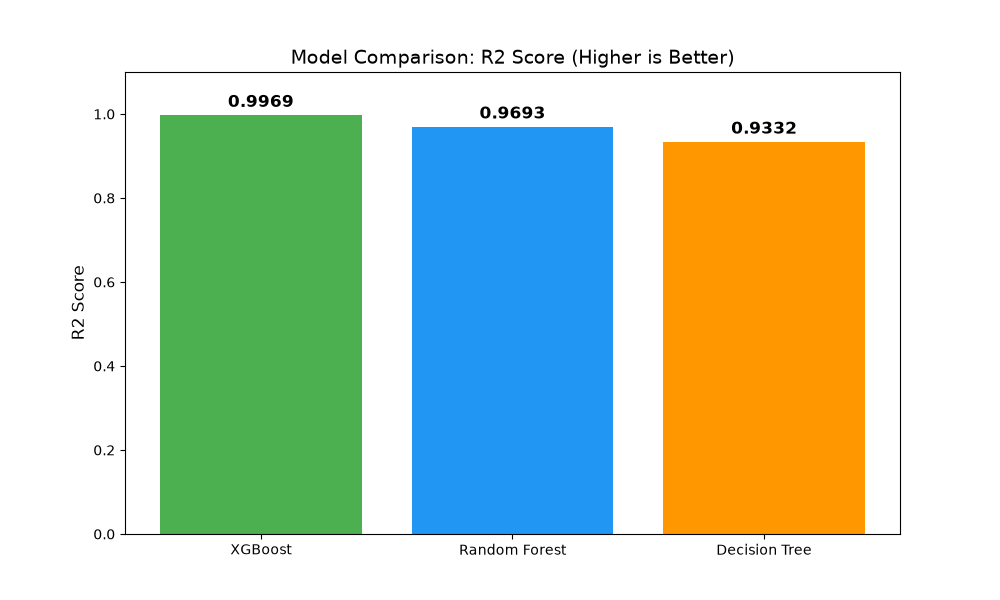
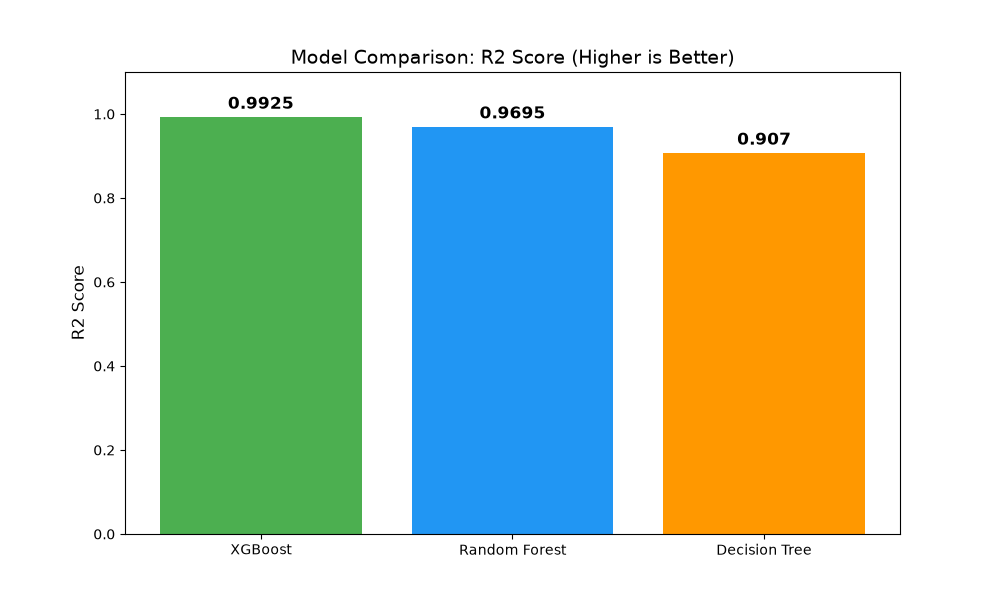
Connect PostgreSQL and update user profile handling

Changed region(s): [[0.651, 0.18, 0.868, 0.27], [0.186, 0.15, 0.341, 0.21], [0.527, 0.18, 0.558, 0.21]]

diff --git a/backend/component01/main.py b/backend/component01/main.py
@@ -7,16 +7,15 @@ import numpy as np
 import joblib
 import shap
 import json
-import sqlite3
 
-# Import our custom modules
+# පරණ sqlite3 import එක අයින් කළා. database.py එකෙන් get_db_connection ගත්තා.
 from schemas import UserRegistrationRequest, PeerFitnessSyncRequest, RecommendationRequest
-from database import init_db, get_registered_user, DB_FILE
+from database import init_db, get_registered_user, get_db_connection
 from nlp_scraper import fetch_live_social_data
 from utils import map_difficulty, extract_scenic_tags, build_route_geometry_from_csv
 
-BASE_DIR = os.path.dirname(os.path.abspath(__file__))  # මේකෙන් එන්නේ backend\component01
-PROJECT_ROOT = os.path.dirname(os.path.dirname(BASE_DIR))  # මේකෙන් J26-IT-342 ප්රධාන ෆෝල්ඩර් එකට යනවා
+BASE_DIR = os.path.dirname(os.path.abspath(__file__))  
+PROJECT_ROOT = os.path.dirname(os.path.dirname(BASE_DIR))  
 
 MODEL_PATH = os.path.join(PROJECT_ROOT, 'ML_models', 'component01', 'models', 'xgboost_trail_model.pkl')
 TRAILS_DATA_PATH = os.path.join(PROJECT_ROOT, 'datasets', 'component01', 'raw', 'hiking_trails_sri_lanka.csv')
@@ -88,27 +87,29 @@ def get_profile():
 @app.post("/profile")
 def save_or_update_profile(req: UserRegistrationRequest):
     init_db()
-    conn = sqlite3.connect(DB_FILE)
+    conn = get_db_connection()
     cursor = conn.cursor()
+    # PostgreSQL වල ? වෙනුවට %s භාවිතා වේ
     cursor.execute("""
         INSERT INTO user_profile (
             id, name, email, age, weight_kg, height_cm, resting_hr,
             experience_level, has_medical_issue, medical_notes,
             preferred_max_hours, preferred_scenic, fitness_level, fitness_source
-        ) VALUES (1, ?, ?, ?, ?, ?, ?, ?, ?, ?, ?, ?, ?, ?)
+        ) VALUES (1, %s, %s, %s, %s, %s, %s, %s, %s, %s, %s, %s, %s, %s)
         ON CONFLICT(id) DO UPDATE SET
-            name=excluded.name,
-            email=excluded.email,
-            age=excluded.age,
-            weight_kg=excluded.weight_kg,
-            height_cm=excluded.height_cm,
-            resting_hr=excluded.resting_hr,
-            experience_level=excluded.experience_level,
-            has_medical_issue=excluded.has_medical_issue,
-            medical_notes=excluded.medical_notes,
-            preferred_max_hours=excluded.preferred_max_hours,
-            preferred_scenic=excluded.preferred_scenic,
-            fitness_level=excluded.fitness_level
+            name=EXCLUDED.name,
+            email=EXCLUDED.email,
+            age=EXCLUDED.age,
+            weight_kg=EXCLUDED.weight_kg,
+            height_cm=EXCLUDED.height_cm,
+            resting_hr=EXCLUDED.resting_hr,
+            experience_level=EXCLUDED.experience_level,
+            has_medical_issue=EXCLUDED.has_medical_issue,
+            medical_notes=EXCLUDED.medical_notes,
+            preferred_max_hours=EXCLUDED.preferred_max_hours,
+            preferred_scenic=EXCLUDED.preferred_scenic,
+            fitness_level=EXCLUDED.fitness_level,
+            fitness_source=EXCLUDED.fitness_source
     """, (
         req.name, req.email, req.age, req.weight_kg, req.height_cm, req.resting_hr,
         req.experience_level, int(req.has_medical_issue), req.medical_notes,
@@ -116,15 +117,17 @@ def save_or_update_profile(req: UserRegistrationRequest):
         req.fitness_level, "Manual Selection / Smartwatch Baseline"
     ))
     conn.commit()
+    cursor.close()
     conn.close()
     return {"status": "saved", "profile": get_registered_user()}
 
 @app.delete("/profile")
 def reset_profile():
-    conn = sqlite3.connect(DB_FILE)
+    conn = get_db_connection()
     cursor = conn.cursor()
-    cursor.execute("DELETE FROM user_profile")
+    cursor.execute("TRUNCATE TABLE user_profile RESTART IDENTITY CASCADE;")
     conn.commit()
+    cursor.close()
     conn.close()
     return {"status": "deleted", "registered": False}
 
@@ -133,14 +136,16 @@ def sync_fitness_from_peer_model(req: PeerFitnessSyncRequest):
     user = get_registered_user()
     if not user:
         raise HTTPException(status_code=400, detail="Please register a user profile first.")
-    conn = sqlite3.connect(DB_FILE)
+    
+    conn = get_db_connection()
     cursor = conn.cursor()
     cursor.execute("""
         UPDATE user_profile
-        SET fitness_level = ?, resting_hr = COALESCE(?, resting_hr), fitness_source = ?
+        SET fitness_level = %s, resting_hr = COALESCE(%s, resting_hr), fitness_source = %s
         WHERE id = 1
     """, (req.predicted_fitness_level, req.resting_hr, req.source_model))
     conn.commit()
+    cursor.close()
     conn.close()
     return {"status": "synced", "profile": get_registered_user()}
 

diff --git a/backend/component01/database.py b/backend/component01/database.py
@@ -1,47 +1,61 @@
-import sqlite3
 import os
 import json
+import psycopg2
+from psycopg2.extras import RealDictCursor
 
-BASE_DIR = os.path.dirname(os.path.abspath(__file__))
-PROJECT_ROOT = os.path.dirname(os.path.dirname(BASE_DIR))
+# ඔයාගේ PostgreSQL Database විස්තර මෙතන දෙන්න
+DB_HOST = "localhost"
+DB_NAME = "hiking_db"
+DB_USER = "postgres"
+DB_PASS = "udula" # ඔයාගේ pgAdmin password එක
 
-DB_FILE = os.path.join(PROJECT_ROOT, 'database', 'component01', 'venture_users.db')
+def get_db_connection():
+    return psycopg2.connect(
+        host=DB_HOST,
+        database=DB_NAME,
+        user=DB_USER,
+        password=DB_PASS
+    )
 
 def init_db():
-    os.makedirs(os.path.dirname(DB_FILE), exist_ok=True)
-    conn = sqlite3.connect(DB_FILE)
+    conn = get_db_connection()
     cursor = conn.cursor()
     cursor.execute("""
         CREATE TABLE IF NOT EXISTS user_profile (
-            id INTEGER PRIMARY KEY CHECK (id = 1),
-            name TEXT NOT NULL,
-            email TEXT NOT NULL,
+            id SERIAL PRIMARY KEY,
+            name VARCHAR(100) NOT NULL,
+            email VARCHAR(100) NOT NULL,
             age INTEGER NOT NULL,
             weight_kg REAL NOT NULL,
             height_cm REAL NOT NULL,
             resting_hr INTEGER NOT NULL,
-            experience_level TEXT NOT NULL,
+            experience_level VARCHAR(50) NOT NULL,
             has_medical_issue INTEGER NOT NULL,
             medical_notes TEXT,
             preferred_max_hours REAL NOT NULL,
             preferred_scenic TEXT NOT NULL,
-            fitness_level TEXT NOT NULL,
-            fitness_source TEXT NOT NULL
+            fitness_level VARCHAR(50) NOT NULL,
+            fitness_source VARCHAR(50) NOT NULL
         )
     """)
     conn.commit()
+    cursor.close()
     conn.close()
 
 def get_registered_user():
     init_db()
-    conn = sqlite3.connect(DB_FILE)
-    conn.row_factory = sqlite3.Row
-    cursor = conn.cursor()
-    cursor.execute("SELECT * FROM user_profile WHERE id = 1")
+    conn = get_db_connection()
+    # RealDictCursor මගින් දත්ත Dictionary එකක් ලෙස ලබාගැනීමට පහසු කරයි
+    cursor = conn.cursor(cursor_factory=RealDictCursor) 
+    cursor.execute("SELECT * FROM user_profile LIMIT 1")
     row = cursor.fetchone()
+    
+    cursor.close()
     conn.close()
+    
     if not row:
         return None
+        
     return {
         "registered": True,
         "name": row["name"],
@@ -54,7 +68,7 @@ def get_registered_user():
         "has_medical_issue": bool(row["has_medical_issue"]),
         "medical_notes": row["medical_notes"] or "None",
         "preferred_max_hours": float(row["preferred_max_hours"]),
-        "preferred_scenic": json.loads(row["preferred_scenic"]),
+        "preferred_scenic": json.loads(row["preferred_scenic"]) if isinstance(row["preferred_scenic"], str) else row["preferred_scenic"],
         "fitness_level": row["fitness_level"],
         "fitness_source": row["fitness_source"]
     }

diff --git a/ML_models/component01/scripts/train_model.py b/ML_models/component01/scripts/train_model.py
@@ -16,7 +16,7 @@ MODEL_PATH = os.path.join(BASE_DIR, 'models', 'xgboost_trail_model.pkl')
 
 PLOTS_DIR = os.path.join(BASE_DIR, 'outputs', 'plots')
 
-# 1. Engineered Dataset එක Load කරගැනීම
+# 1. Engineered Dataset Load 
 df = pd.read_csv(PROCESSED_DATA_PATH)
 
 # 2. Model එකට දෙන Features (X) සහ Target එක (y) තෝරාගැනීම
@@ -33,7 +33,7 @@ y = df['Suitability_Score']
 # 3. Data ටික Train (80%) සහ Test (20%) ලෙස බෙදීම
 X_train, X_test, y_train, y_test = train_test_split(X, y, test_size=0.2, random_state=42)
 
-# 4. XGBoost Model එක Train කිරීම
+# 4. XGBoost Model Train 
 print("Training XGBoost Model...")
 model = xgb.XGBRegressor(
     n_estimators=200,
@@ -45,7 +45,7 @@ model = xgb.XGBRegressor(
 )
 model.fit(X_train, y_train)
 
-# 5. Model එකේ Accuracy එක පරීක්ෂා කිරීම
+# 5. Model Accuracy 
 y_pred = model.predict(X_test)
 rmse = np.sqrt(mean_squared_error(y_test, y_pred))
 mae = mean_absolute_error(y_test, y_pred)
@@ -61,12 +61,12 @@ os.makedirs(os.path.dirname(MODEL_PATH), exist_ok=True)
 joblib.dump(model, MODEL_PATH)
 print("\nSaved trained model as 'xgboost_trail_model.pkl'")
 
-# 7. SHAP Explainability (XAI) ගණනය කිරීම
+# 7. SHAP Explainability (XAI) 
 print("Generating SHAP Explanations...")
 explainer = shap.TreeExplainer(model)
 shap_values = explainer(X_test)
 
-# SHAP Global Summary Plot එක Save කිරීම (Report එකට දාන්නත් පුළුවන්)
+# Save SHAP Global Summary Plot 
 os.makedirs(PLOTS_DIR, exist_ok=True)
 plt.figure(figsize=(10, 6))
 shap.summary_plot(shap_values, X_test, show=False)
@@ -76,23 +76,3 @@ plt.savefig(os.path.join(PLOTS_DIR, 'shap_summary_plot.png'), dpi=150)
 plt.close()
 print("Saved 'shap_summary_plot.png'")
 
-# 8. එක් User කෙනෙක්ට (U001) Recommendations සහ SHAP හේතු ලබාගැනීම
-u1_df = df[df['User_ID'] == 'U001'].copy()
-u1_X = u1_df[feature_cols]
-u1_df['Predicted_Score'] = np.clip(model.predict(u1_X), 0, 100).round(2)
-u1_shap = explainer(u1_X)
-
-top_idx = u1_df['Predicted_Score'].idxmax()
-local_pos = list(u1_df.index).index(top_idx)
-best_trail = u1_df.loc[top_idx, 'Trail_Name']
-
-print(f"\nTop Recommended Trail for U001: {best_trail} ({u1_df.loc[top_idx, 'Predicted_Score']}%)")
-
-# හොඳම Trail එක තෝරාගැනීමට බලපෑ හේතු පෙන්වන SHAP Waterfall Plot එක
-plt.figure(figsize=(10, 5))
-shap.plots.waterfall(u1_shap[local_pos], show=False)
-plt.title(f"Why '{best_trail}' was Recommended for U001", fontsize=12)
-plt.tight_layout()
-plt.savefig(os.path.join(PLOTS_DIR, 'shap_waterfall_u001.png'), dpi=150)
-plt.close()
-print("Saved 'shap_waterfall_u001.png'")

diff --git a/ML_models/component01/scripts/feature_engineering.py b/ML_models/component01/scripts/feature_engineering.py
@@ -8,7 +8,7 @@ PROJECT_ROOT = os.path.dirname(os.path.dirname(BASE_DIR))
 RAW_DATA_DIR = os.path.join(PROJECT_ROOT, 'datasets', 'component01', 'raw')
 PROCESSED_DATA_DIR = os.path.join(PROJECT_ROOT, 'datasets', 'component01', 'processed')
 
-# 1. Datasets දෙක Load කරගැනීම
+# 1. Datasets Load 
 users_df = pd.read_csv(os.path.join(RAW_DATA_DIR, 'Hiking Trail Preference & Fitness Assessment Survey.csv'))
 trails_df = pd.read_csv(os.path.join(RAW_DATA_DIR, 'hiking_trails_sri_lanka.csv'))
 
